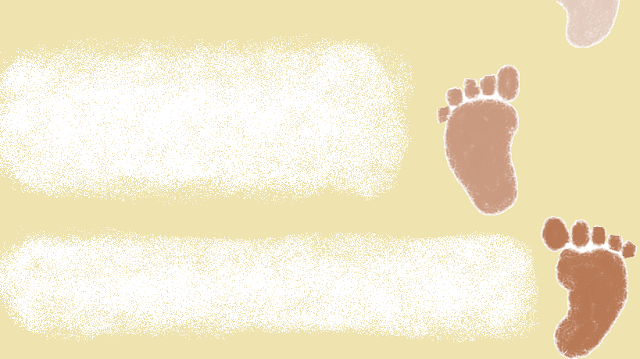
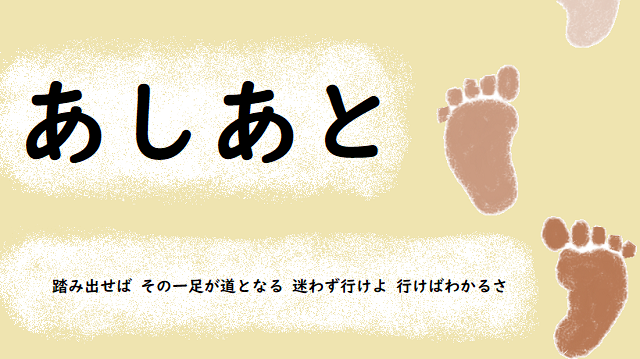
fix stopwatch and title image

diff --git a/_nuxt/6419275028afa44f4fef.js b/_nuxt/6419275028afa44f4fef.js
@@ -1,0 +1,1 @@
+(window.webpackJsonp=window.webpackJsonp||[]).push([[9],{189:function(t,e,n){var content=n(195);"string"==typeof content&&(content=[[t.i,content,""]]),content.locals&&(t.exports=content.locals);(0,n(31).default)("a4da7644",content,!0,{sourceMap:!1})},194:function(t,e,n){"use strict";var r=n(189);n.n(r).a},195:function(t,e,n){(e=n(30)(!1)).push([t.i,".img-title[data-v-e1050600]{border:solid}",""]),t.exports=e},196:function(t,e,n){"use strict";var r={props:{title:{type:String,required:!0}},data:function(){return{clipped:!1,drawer:!1,miniVariant:!1,items:[{icon:"mdi-home",color:"red lighten-1",title:"Home",to:"/"},{icon:"mdi-account",color:"green",title:"Profile",to:"/profile"},{icon:"mdi-toolbox",color:"purple darken-1",title:"Tools",to:"/tools"},{icon:"mdi-gamepad-variant",color:"blue",title:"Games",to:"/games"},{icon:"mdi-text-box-search-outline",color:"grey darken-3",title:"Research",to:"/research"},{icon:"mdi-link-variant",color:"green accent-3",title:"Links",to:"/links"}]}}},o=n(37),l=n(50),c=n.n(l),j=n(492),v=n(476),w=n(248),m=n(249),h=n(228),d=n(250),f=n(188),k=n(490),_=n(205),component=Object(o.a)(r,(function(){var t=this,e=t.$createElement,n=t._self._c||e;return n("div",[n("v-navigation-drawer",{attrs:{"mini-variant":t.miniVariant,clipped:t.clipped,fixed:"",app:""},model:{value:t.drawer,callback:function(e){t.drawer=e},expression:"drawer"}},[n("v-list",t._l(t.items,(function(e,i){return n("v-list-item",{key:i,attrs:{to:e.to,router:"",exact:""}},[n("v-list-item-action",[n("v-icon",{attrs:{color:e.color}},[t._v(t._s(e.icon))])],1),t._v(" "),n("v-list-item-content",[n("v-list-item-title",{domProps:{textContent:t._s(e.title)}})],1)],1)})),1)],1),t._v(" "),n("v-app-bar",{attrs:{"clipped-left":t.clipped,fixed:"",app:""}},[n("v-app-bar-nav-icon",{on:{click:function(e){e.stopPropagation(),t.drawer=!t.drawer}}}),t._v(" "),n("v-toolbar-title",[t._v("\n      "+t._s(t.title)+"\n    ")])],1)],1)}),[],!1,null,null,null);e.a=component.exports;c()(component,{VAppBar:j.a,VAppBarNavIcon:v.a,VIcon:w.a,VList:m.a,VListItem:h.a,VListItemAction:d.a,VListItemContent:f.a,VListItemTitle:f.c,VNavigationDrawer:k.a,VToolbarTitle:_.a})},197:function(t,e,n){"use strict";n(194);var r=n(37),o=n(50),l=n.n(o),c=n(384),component=Object(r.a)({},(function(){var t=this.$createElement;return(this._self._c||t)("v-img",{staticClass:"img-title mx-auto",attrs:{width:"80%",src:"/images/title.png"}})}),[],!1,null,"e1050600",null);e.a=component.exports;l()(component,{VImg:c.a})},240:function(t,e,n){var content=n(469);"string"==typeof content&&(content=[[t.i,content,""]]),content.locals&&(t.exports=content.locals);(0,n(31).default)("0636e0ce",content,!0,{sourceMap:!1})},465:function(t,e,n){var map={"./af":255,"./af.js":255,"./ar":256,"./ar-dz":257,"./ar-dz.js":257,"./ar-kw":258,"./ar-kw.js":258,"./ar-ly":259,"./ar-ly.js":259,"./ar-ma":260,"./ar-ma.js":260,"./ar-sa":261,"./ar-sa.js":261,"./ar-tn":262,"./ar-tn.js":262,"./ar.js":256,"./az":263,"./az.js":263,"./be":264,"./be.js":264,"./bg":265,"./bg.js":265,"./bm":266,"./bm.js":266,"./bn":267,"./bn.js":267,"./bo":268,"./bo.js":268,"./br":269,"./br.js":269,"./bs":270,"./bs.js":270,"./ca":271,"./ca.js":271,"./cs":272,"./cs.js":272,"./cv":273,"./cv.js":273,"./cy":274,"./cy.js":274,"./da":275,"./da.js":275,"./de":276,"./de-at":277,"./de-at.js":277,"./de-ch":278,"./de-ch.js":278,"./de.js":276,"./dv":279,"./dv.js":279,"./el":280,"./el.js":280,"./en-SG":281,"./en-SG.js":281,"./en-au":282,"./en-au.js":282,"./en-ca":283,"./en-ca.js":283,"./en-gb":284,"./en-gb.js":284,"./en-ie":285,"./en-ie.js":285,"./en-il":286,"./en-il.js":286,"./en-nz":287,"./en-nz.js":287,"./eo":288,"./eo.js":288,"./es":289,"./es-do":290,"./es-do.js":290,"./es-us":291,"./es-us.js":291,"./es.js":289,"./et":292,"./et.js":292,"./eu":293,"./eu.js":293,"./fa":294,"./fa.js":294,"./fi":295,"./fi.js":295,"./fo":296,"./fo.js":296,"./fr":297,"./fr-ca":298,"./fr-ca.js":298,"./fr-ch":299,"./fr-ch.js":299,"./fr.js":297,"./fy":300,"./fy.js":300,"./ga":301,"./ga.js":301,"./gd":302,"./gd.js":302,"./gl":303,"./gl.js":303,"./gom-latn":304,"./gom-latn.js":304,"./gu":305,"./gu.js":305,"./he":306,"./he.js":306,"./hi":307,"./hi.js":307,"./hr":308,"./hr.js":308,"./hu":309,"./hu.js":309,"./hy-am":310,"./hy-am.js":310,"./id":311,"./id.js":311,"./is":312,"./is.js":312,"./it":313,"./it-ch":314,"./it-ch.js":314,"./it.js":313,"./ja":315,"./ja.js":315,"./jv":316,"./jv.js":316,"./ka":317,"./ka.js":317,"./kk":318,"./kk.js":318,"./km":319,"./km.js":319,"./kn":320,"./kn.js":320,"./ko":321,"./ko.js":321,"./ku":322,"./ku.js":322,"./ky":323,"./ky.js":323,"./lb":324,"./lb.js":324,"./lo":325,"./lo.js":325,"./lt":326,"./lt.js":326,"./lv":327,"./lv.js":327,"./me":328,"./me.js":328,"./mi":329,"./mi.js":329,"./mk":330,"./mk.js":330,"./ml":331,"./ml.js":331,"./mn":332,"./mn.js":332,"./mr":333,"./mr.js":333,"./ms":334,"./ms-my":335,"./ms-my.js":335,"./ms.js":334,"./mt":336,"./mt.js":336,"./my":337,"./my.js":337,"./nb":338,"./nb.js":338,"./ne":339,"./ne.js":339,"./nl":340,"./nl-be":341,"./nl-be.js":341,"./nl.js":340,"./nn":342,"./nn.js":342,"./pa-in":343,"./pa-in.js":343,"./pl":344,"./pl.js":344,"./pt":345,"./pt-br":346,"./pt-br.js":346,"./pt.js":345,"./ro":347,"./ro.js":347,"./ru":348,"./ru.js":348,"./sd":349,"./sd.js":349,"./se":350,"./se.js":350,"./si":351,"./si.js":351,"./sk":352,"./sk.js":352,"./sl":353,"./sl.js":353,"./sq":354,"./sq.js":354,"./sr":355,"./sr-cyrl":356,"./sr-cyrl.js":356,"./sr.js":355,"./ss":357,"./ss.js":357,"./sv":358,"./sv.js":358,"./sw":359,"./sw.js":359,"./ta":360,"./ta.js":360,"./te":361,"./te.js":361,"./tet":362,"./tet.js":362,"./tg":363,"./tg.js":363,"./th":364,"./th.js":364,"./tl-ph":365,"./tl-ph.js":365,"./tlh":366,"./tlh.js":366,"./tr":367,"./tr.js":367,"./tzl":368,"./tzl.js":368,"./tzm":369,"./tzm-latn":370,"./tzm-latn.js":370,"./tzm.js":369,"./ug-cn":371,"./ug-cn.js":371,"./uk":372,"./uk.js":372,"./ur":373,"./ur.js":373,"./uz":374,"./uz-latn":375,"./uz-latn.js":375,"./uz.js":374,"./vi":376,"./vi.js":376,"./x-pseudo":377,"./x-pseudo.js":377,"./yo":378,"./yo.js":378,"./zh-cn":379,"./zh-cn.js":379,"./zh-hk":380,"./zh-hk.js":380,"./zh-tw":381,"./zh-tw.js":381};function r(t){var e=o(t);return n(e)}function o(t){if(!n.o(map,t)){var e=new Error("Cannot find module '"+t+"'");throw e.code="MODULE_NOT_FOUND",e}return map[t]}r.keys=function(){return Object.keys(map)},r.resolve=o,t.exports=r,r.id=465},468:function(t,e,n){"use strict";var r=n(240);n.n(r).a},469:function(t,e,n){(e=n(30)(!1)).push([t.i,".font--primary[data-v-4c97812e]{color:#d2691e}",""]),t.exports=e},483:function(t,e,n){"use strict";n.r(e);var r=n(196),o=n(197),l=(n(53),n(54),n(3),{data:function(){return{input:"",output:"",beforeBaseNumber:"",afterBaseNumber:"",baseNumberItems:[{text:"2進数",value:2},{text:"8進数",value:8},{text:"10進数",value:10},{text:"16進数",value:16}]}},methods:{convert:function(){this.output=parseInt(this.input,this.beforeBaseNumber).toString(this.afterBaseNumber)}}}),c=n(37),j=n(50),v=n.n(j),w=n(243),m=n(480),h=n(485),d=n(383),component=Object(c.a)(l,(function(){var t=this,e=t.$createElement,n=t._self._c||e;return n("div",[n("v-row",[n("v-select",{attrs:{items:t.baseNumberItems,"item-text":t.text,"item-value":t.value,dense:"",outlined:""},model:{value:t.beforeBaseNumber,callback:function(e){t.beforeBaseNumber=e},expression:"beforeBaseNumber"}}),t._v("の "),n("v-text-field",{attrs:{"single-line":"",outlined:""},model:{value:t.input,callback:function(e){t.input=e},expression:"input"}}),t._v("を\n    "),n("v-select",{attrs:{items:t.baseNumberItems,"item-text":t.text,"item-value":t.value,dense:"",outlined:""},model:{value:t.afterBaseNumber,callback:function(e){t.afterBaseNumber=e},expression:"afterBaseNumber"}}),t._v("に変換\n  ")],1),t._v(" "),n("v-row",[n("v-btn",{on:{click:function(e){return t.convert()}}},[t._v("変換")]),t._v(" "),n("v-text-field",{attrs:{"single-line":"",outlined:""},model:{value:t.output,callback:function(e){t.output=e},expression:"output"}})],1)],1)}),[],!1,null,null,null),f=component.exports;v()(component,{VBtn:w.a,VRow:m.a,VSelect:h.a,VTextField:d.a});n(119);var k=n(187),_=n.n(k),x={data:function(){return{nowDate:"",youbi:["月","火","水","木","金","土","日"]}},created:function(){var t=this;setInterval((function(){var e=_()(),n=e.format("E");t.nowDate=e.format("YYYY年MM月DD日("),t.nowDate+=t.youbi[Number(n)-1],t.nowDate+=e.format(") HH時mm分ss秒")}),500)}},y=Object(c.a)(x,(function(){var t=this.$createElement;return(this._self._c||t)("p",[this._v(this._s(this.nowDate))])}),[],!1,null,null,null).exports,V={data:function(){return{input:1e9}},computed:{output:function(){return Number(this.input).toLocaleString()}}},C=Object(c.a)(V,(function(){var t=this,e=t.$createElement,n=t._self._c||e;return n("div",[n("v-row",[n("v-text-field",{attrs:{"single-line":"",outlined:""},model:{value:t.input,callback:function(e){t.input=e},expression:"input"}})],1),t._v(" "),n("v-row",[n("v-text-field",{attrs:{"single-line":"",outlined:""},model:{value:t.output,callback:function(e){t.output=e},expression:"output"}})],1)],1)}),[],!1,null,null,null),O=C.exports;v()(C,{VRow:m.a,VTextField:d.a});n(88),n(38);var N={data:function(){return{input:""}},computed:{strCount:function(){return this.input.replace(/\n/g,"").length},spaCount:function(){return this.input.replace(/\s+/g,"").length},retCount:function(){var t=this.input.match(/\n/g);return t&&t.length+1||1},parCount:function(){var p=this.input.match(/\n(?:|\s+|「|『|＜|《|〈|≪|（|“|‘|\(|"|')./g);return p&&p.length+1||1}}},z=n(477),T=n(482),I=Object(c.a)(N,(function(){var t=this,e=t.$createElement,n=t._self._c||e;return n("div",[n("v-row",[n("v-textarea",{attrs:{solo:""},model:{value:t.input,callback:function(e){t.input=e},expression:"input"}})],1),t._v(" "),n("v-row",[n("v-col",[t._v("文字数(全文字)")]),t._v(" "),n("v-col",[t._v(t._s(t.strCount))])],1),t._v(" "),n("v-row",[n("v-col",[t._v("文字数(スペース無視)")]),t._v(" "),n("v-col",[t._v(t._s(t.spaCount))])],1),t._v(" "),n("v-row",[n("v-col",[t._v("行数")]),t._v(" "),n("v-col",[t._v(t._s(t.retCount))])],1),t._v(" "),n("v-row",[n("v-col",[t._v("段落数")]),t._v(" "),n("v-col",[t._v(t._s(t.parCount))])],1)],1)}),[],!1,null,null,null),B=I.exports;v()(I,{VCol:z.a,VRow:m.a,VTextarea:T.a});var D={data:function(){return{value:0}},methods:{roll:function(){this.value=Math.floor(6*Math.random())+1}}},E=n(384),S=Object(c.a)(D,(function(){var t=this,e=t.$createElement,n=t._self._c||e;return n("div",[n("v-img",{staticClass:"mx-auto",attrs:{width:"30%",src:"/images/tools/dice.png"},on:{click:function(e){return t.roll()}}}),t._v(" "),n("p",[t._v(t._s(t.value))])],1)}),[],!1,null,null,null),$=S.exports;v()(S,{VImg:E.a});var M={methods:{run:function(){var t=Math.floor(100*Math.random()),e="大吉";t>9?e="中吉":t>29?e="吉":t>69?e="凶":t>89&&(e="大凶"),alert(e)}}},L=Object(c.a)(M,(function(){var t=this,e=t.$createElement;return(t._self._c||e)("v-img",{staticClass:"mx-auto",attrs:{width:"30%",src:"/images/tools/omikuji.png"},on:{click:function(e){return t.run()}}})}),[],!1,null,null,null),R=L.exports;v()(L,{VImg:E.a});var F={data:function(){return{input:"",repeatCount:10,output:""}},methods:{repeat:function(){this.output="";for(var i=0;i<this.repeatCount;i++)this.output+=this.input}}},H=Object(c.a)(F,(function(){var t=this,e=t.$createElement,n=t._self._c||e;return n("div",[n("v-row",[n("v-text-field",{attrs:{"single-line":"",outlined:""},model:{value:t.input,callback:function(e){t.input=e},expression:"input"}}),t._v("を\n    "),n("v-text-field",{attrs:{"single-line":"",outlined:""},model:{value:t.repeatCount,callback:function(e){t.repeatCount=e},expression:"repeatCount"}}),t._v("回\n  ")],1),t._v(" "),n("v-row",[n("v-btn",{on:{click:function(e){return t.repeat()}}},[t._v("生成")])],1),t._v(" "),n("v-row",[n("v-text-field",{attrs:{"single-line":"",outlined:""},model:{value:t.output,callback:function(e){t.output=e},expression:"output"}})],1)],1)}),[],!1,null,null,null),P=H.exports;v()(H,{VBtn:w.a,VRow:m.a,VTextField:d.a});var Y={data:function(){return{count:0,timerOn:!1,timerObj:null}},computed:{formatTime:function(){var t=this.count%100,e=Math.floor(this.count/100),n=Math.floor(e/60),r=Math.floor(n/60);return this.getdoubleDigestNumer(r)+":"+this.getdoubleDigestNumer(n)+":"+this.getdoubleDigestNumer(e)+":"+this.getdoubleDigestNumer(t)}},methods:{up:function(){this.count++,864e4===this.count&&(this.count=0)},start:function(){var t=this;this.timerObj=setInterval((function(){t.up()}),10),this.timerOn=!0},stop:function(){clearInterval(this.timerObj),this.timerOn=!1},clear:function(){this.count=0},getdoubleDigestNumer:function(t){return("0"+t).slice(-2)}}},A=Object(c.a)(Y,(function(){var t=this,e=t.$createElement,n=t._self._c||e;return n("div",[n("div",[t._v("\n    "+t._s(t.formatTime)+"\n  ")]),t._v(" "),t.timerOn?t._e():n("v-btn",{on:{click:function(e){return t.start()}}},[t._v("Start")]),t._v(" "),t.timerOn?n("v-btn",{on:{click:function(e){return t.stop()}}},[t._v("Stop")]):t._e(),t._v(" "),0==t.count||t.timerOn?t._e():n("v-btn",{on:{click:function(e){return t.clear()}}},[t._v("Clear")])],1)}),[],!1,null,null,null),G=A.exports;v()(A,{VBtn:w.a});var J={data:function(){return{input:""}},computed:{output:function(){return this.input.replace(/\t/g,"  ")}}},U=Object(c.a)(J,(function(){var t=this,e=t.$createElement,n=t._self._c||e;return n("div",[n("v-row",[n("v-textarea",{attrs:{solo:""},model:{value:t.input,callback:function(e){t.input=e},expression:"input"}})],1),t._v(" "),n("v-row",[n("v-textarea",{attrs:{solo:""},model:{value:t.output,callback:function(e){t.output=e},expression:"output"}})],1)],1)}),[],!1,null,null,null),W=U.exports;v()(U,{VRow:m.a,VTextarea:T.a});var K={data:function(){return{index:0,items:["http://www.e-subaru.jp/j24simada1.jpg","http://www.e-subaru.jp/j29mituke1.jpg","http://www.e-subaru.jp/j27kakegawa1.jpg","http://www.e-subaru.jp/j28fukuroi1.jpg","http://www.e-subaru.jp/j30hamamatu1.jpg","http://www.e-subaru.jp/j31maisaka1.jpg","http://www.e-subaru.jp/j25kanaya1.jpg","http://www.e-subaru.jp/j26nissaka1.jpg","http://www.e-subaru.jp/j23fujieda1.jpg","http://www.e-subaru.jp/j22okabe1.jpg","http://www.e-subaru.jp/j21mariko1.jpg","http://www.e-subaru.jp/j20fuchu1.jpg","http://www.e-subaru.jp/j19ejiri1.jpg","http://www.e-subaru.jp/j18okitu1.jpg","http://www.e-subaru.jp/j55keisi1.jpg","http://www.e-subaru.jp/j17yui1.jpg","http://www.e-subaru.jp/j54ootu1.jpg","http://www.e-subaru.jp/j52isibe2.jpg","http://www.e-subaru.jp/j51minakuti1.jpg","http://www.e-subaru.jp/j53kusatu1.jpg","http://www.e-subaru.jp/j49sakanosita1.jpg","http://www.e-subaru.jp/j48seki1.jpg","http://www.e-subaru.jp/j50tutiyama1.jpg","http://www.e-subaru.jp/j47kameyama1.jpg","http://www.e-subaru.jp/j46syouno1.jpg","http://www.e-subaru.jp/j45isiyakusi.jpg","http://www.e-subaru.jp/j44yokkaiti1.jpg","http://www.e-subaru.jp/j43kuwana1.jpg","http://www.e-subaru.jp/j42miya1.jpg","http://www.e-subaru.jp/j41narumi.jpg","http://www.e-subaru.jp/j40tirifu1.jpg","http://www.e-subaru.jp/j39okazaki.jpg","http://www.e-subaru.jp/j38fujikawa1.jpg","http://www.e-subaru.jp/j37akasaka1.jpg","http://www.e-subaru.jp/j36goyu1.jpg","http://www.e-subaru.jp/j35yosida1.jpg","http://www.e-subaru.jp/j34futagawa1.jpg","http://www.e-subaru.jp/j33sirasuka1.jpg","http://www.e-subaru.jp/j32arai1.jpg","http://www.e-subaru.jp/j16kanbara2bmp.jpg","http://www.e-subaru.jp/j15yosiwara1.jpg","http://www.e-subaru.jp/j14hara1.jpg","http://www.e-subaru.jp/j13numazu1.jpg","http://www.e-subaru.jp/j12misima1.jpg","http://www.e-subaru.jp/j11hakone1.jpg","http://www.e-subaru.jp/j10odawara1.jpg","http://www.e-subaru.jp/j9ooiso1.jpg","http://www.e-subaru.jp/j3kawasaki1.jpg","http://www.e-subaru.jp/j2sinagawa3.jpg","http://www.e-subaru.jp/1nihonbasi142050b.jpg","http://www.e-subaru.jp/j6totuka1.jpg","http://www.e-subaru.jp/j8hiratuka1.jpg","http://www.e-subaru.jp/j4kanagawa1.jpg","http://www.e-subaru.jp/j7fujisawa1.jpg"]}},computed:{imgSrc:function(){return this.items[this.index]}},methods:{prev:function(){0===this.index?this.index=this.items.length-1:this.index-=1},next:function(){this.index===this.items.length-1?this.index=0:this.index+=1}}},Q=Object(c.a)(K,(function(){var t=this,e=t.$createElement,n=t._self._c||e;return n("div",[n("v-row",[n("v-img",{attrs:{src:t.imgSrc}})],1),t._v(" "),n("v-row",[n("v-btn",{on:{click:function(e){return t.prev()}}},[t._v("Prev")]),t._v(" "),n("v-btn",{on:{click:function(e){return t.next()}}},[t._v("Next")])],1)],1)}),[],!1,null,null,null),X=Q.exports;v()(Q,{VBtn:w.a,VImg:E.a,VRow:m.a});var Z={components:{Header:r.a,TitleImage:o.a,BaseNumberConvert:f,Clock:y,CommaSeparate:O,Count:B,Dice:$,Omikuji:R,Repeat:P,StopWatch:G,TabToSpaceConvert:W,Tokaido53:X},data:function(){return{items:[{key:"clock",title:"現在時刻"},{key:"stop-watch",title:"ストップウォッチ"},{key:"omikuji",title:"おみくじ"},{key:"dice",title:"サイコロ"},{key:"repeat",title:"文字繰り返し"},{key:"comma-separate",title:"カンマ区切り"},{key:"base-number-convert",title:"進数変換"},{key:"count",title:"文字数カウント"},{key:"tab-to-space-convert",title:"タブ→スペース変換"},{key:"tokaido53",title:"東海道五十三次"}]}}},tt=(n(468),n(200)),et=n(191),at=n(478),nt=n(479),st=Object(c.a)(Z,(function(){var t=this,e=t.$createElement,n=t._self._c||e;return n("v-layout",[n("Header",{attrs:{title:"あしあと - Tools"}}),t._v(" "),n("v-flex",{staticClass:"text-center"},[n("v-row",{attrs:{justify:"center"}},[n("v-col",{attrs:{cols:"6"}},[n("title-image"),t._v(" "),n("div",[t._v("\n          雑多な"),n("span",{staticClass:"font--primary"},[t._v("ツール")]),t._v("を置くためのページです．\n        ")])],1)],1),t._v(" "),n("v-card",[n("v-row",t._l(t.items,(function(e){return n("v-col",{key:e.key,attrs:{cols:"4"}},[n("v-card-title",[t._v(t._s(e.title))]),t._v(" "),"clock"===e.key?n("v-card-text",[n("clock")],1):"stop-watch"===e.key?n("v-card-text",[n("stop-watch")],1):"omikuji"===e.key?n("v-card-text",[n("omikuji")],1):"dice"===e.key?n("v-card-text",[n("dice")],1):"repeat"===e.key?n("v-card-text",[n("repeat")],1):"comma-separate"===e.key?n("v-card-text",[n("comma-separate")],1):"base-number-convert"===e.key?n("v-card-text",[n("base-number-convert")],1):"count"===e.key?n("v-card-text",[n("count")],1):"tab-to-space-convert"===e.key?n("v-card-text",[n("tab-to-space-convert")],1):"tokaido53"===e.key?n("v-card-text",[n("tokaido53")],1):t._e()],1)})),1)],1)],1)],1)}),[],!1,null,"4c97812e",null);e.default=st.exports;v()(st,{VCard:tt.a,VCardText:et.a,VCardTitle:et.b,VCol:z.a,VFlex:at.a,VLayout:nt.a,VRow:m.a})}}]);

diff --git a/index.html b/index.html
@@ -179,7 +179,7 @@ MMM@  MMMMMMMMMMMMMMMMM)              `                     `   `               
     <link data-n-head="1" rel="icon" type="image/x-icon" href="/ico/favicon.ico">
     <link data-n-head="1" rel="stylesheet" type="text/css" href="https://fonts.googleapis.com/css?family=Roboto:100,300,400,500,700,900&display=swap">
     <link data-n-head="1" rel="stylesheet" type="text/css" href="https://cdn.jsdelivr.net/npm/@mdi/font@latest/css/materialdesignicons.min.css">
-    <link rel="preload" href="/_nuxt/9303c3ffac6cb566c17b.js" as="script">
+    <link rel="preload" href="/_nuxt/4c4d12ef0c7cbf77c2ba.js" as="script">
     <link rel="preload" href="/_nuxt/cfa579ebee79642b3be6.js" as="script">
     <link rel="preload" href="/_nuxt/bf77c3e02fa203348d8d.js" as="script">
     <link rel="preload" href="/_nuxt/2b2190568c6d1faf86b1.js" as="script">
@@ -193,7 +193,7 @@ MMM@  MMMMMMMMMMMMMMMMM)              `                     `   `               
 
     <!-- Vue Version -->
     <div id="__nuxt"><style>#nuxt-loading{visibility:hidden;opacity:0;position:absolute;left:0;right:0;top:0;bottom:0;display:flex;justify-content:center;align-items:center;flex-direction:column;animation:nuxtLoadingIn 10s ease;-webkit-animation:nuxtLoadingIn 10s ease;animation-fill-mode:forwards;overflow:hidden}@keyframes nuxtLoadingIn{0%{visibility:hidden;opacity:0}20%{visibility:visible;opacity:0}100%{visibility:visible;opacity:1}}@-webkit-keyframes nuxtLoadingIn{0%{visibility:hidden;opacity:0}20%{visibility:visible;opacity:0}100%{visibility:visible;opacity:1}}#nuxt-loading>div,#nuxt-loading>div:after{border-radius:50%;width:5rem;height:5rem}#nuxt-loading>div{font-size:10px;position:relative;text-indent:-9999em;border:.5rem solid #f5f5f5;border-left:.5rem solid #fff;-webkit-transform:translateZ(0);-ms-transform:translateZ(0);transform:translateZ(0);-webkit-animation:nuxtLoading 1.1s infinite linear;animation:nuxtLoading 1.1s infinite linear}#nuxt-loading.error>div{border-left:.5rem solid #ff4500;animation-duration:5s}@-webkit-keyframes nuxtLoading{0%{-webkit-transform:rotate(0);transform:rotate(0)}100%{-webkit-transform:rotate(360deg);transform:rotate(360deg)}}@keyframes nuxtLoading{0%{-webkit-transform:rotate(0);transform:rotate(0)}100%{-webkit-transform:rotate(360deg);transform:rotate(360deg)}}</style><script>window.addEventListener("error",function(){var e=document.getElementById("nuxt-loading");e&&(e.className+=" error")})</script><div id="nuxt-loading" aria-live="polite" role="status"><div>Loading...</div></div></div>
-    <script type="text/javascript" src="/_nuxt/9303c3ffac6cb566c17b.js"></script>
+    <script type="text/javascript" src="/_nuxt/4c4d12ef0c7cbf77c2ba.js"></script>
     <script type="text/javascript" src="/_nuxt/cfa579ebee79642b3be6.js"></script>
     <script type="text/javascript" src="/_nuxt/bf77c3e02fa203348d8d.js"></script>
     <script type="text/javascript" src="/_nuxt/2b2190568c6d1faf86b1.js"></script>
@@ -202,7 +202,7 @@ MMM@  MMMMMMMMMMMMMMMMM)              `                     `   `               
     <div id="__old" style="display:none;"><table class="main">
     <!-- Title -->
     <tr><td colspan="3"><table class="title"><tr><td>
-    <img src="/images/title.png" alt="あしあと">
+    <img src="/images/title_back.png" alt="あしあと">
     <img src="/images/string.png" alt="あしあと" class="titlestring">
     </td></tr></table></td></tr>
     <!-- Title -->

diff --git a/games/index.html b/games/index.html
@@ -13,7 +13,7 @@
     <link data-n-head="1" rel="icon" type="image/x-icon" href="/ico/favicon.ico">
     <link data-n-head="1" rel="stylesheet" type="text/css" href="https://fonts.googleapis.com/css?family=Roboto:100,300,400,500,700,900&display=swap">
     <link data-n-head="1" rel="stylesheet" type="text/css" href="https://cdn.jsdelivr.net/npm/@mdi/font@latest/css/materialdesignicons.min.css">
-    <link rel="preload" href="/_nuxt/9303c3ffac6cb566c17b.js" as="script">
+    <link rel="preload" href="/_nuxt/4c4d12ef0c7cbf77c2ba.js" as="script">
     <link rel="preload" href="/_nuxt/cfa579ebee79642b3be6.js" as="script">
     <link rel="preload" href="/_nuxt/bf77c3e02fa203348d8d.js" as="script">
     <link rel="preload" href="/_nuxt/2b2190568c6d1faf86b1.js" as="script">
@@ -27,7 +27,7 @@
 
     <!-- Vue Version -->
     <div id="__nuxt"><style>#nuxt-loading{visibility:hidden;opacity:0;position:absolute;left:0;right:0;top:0;bottom:0;display:flex;justify-content:center;align-items:center;flex-direction:column;animation:nuxtLoadingIn 10s ease;-webkit-animation:nuxtLoadingIn 10s ease;animation-fill-mode:forwards;overflow:hidden}@keyframes nuxtLoadingIn{0%{visibility:hidden;opacity:0}20%{visibility:visible;opacity:0}100%{visibility:visible;opacity:1}}@-webkit-keyframes nuxtLoadingIn{0%{visibility:hidden;opacity:0}20%{visibility:visible;opacity:0}100%{visibility:visible;opacity:1}}#nuxt-loading>div,#nuxt-loading>div:after{border-radius:50%;width:5rem;height:5rem}#nuxt-loading>div{font-size:10px;position:relative;text-indent:-9999em;border:.5rem solid #f5f5f5;border-left:.5rem solid #fff;-webkit-transform:translateZ(0);-ms-transform:translateZ(0);transform:translateZ(0);-webkit-animation:nuxtLoading 1.1s infinite linear;animation:nuxtLoading 1.1s infinite linear}#nuxt-loading.error>div{border-left:.5rem solid #ff4500;animation-duration:5s}@-webkit-keyframes nuxtLoading{0%{-webkit-transform:rotate(0);transform:rotate(0)}100%{-webkit-transform:rotate(360deg);transform:rotate(360deg)}}@keyframes nuxtLoading{0%{-webkit-transform:rotate(0);transform:rotate(0)}100%{-webkit-transform:rotate(360deg);transform:rotate(360deg)}}</style><script>window.addEventListener("error",function(){var e=document.getElementById("nuxt-loading");e&&(e.className+=" error")})</script><div id="nuxt-loading" aria-live="polite" role="status"><div>Loading...</div></div></div>
-    <script type="text/javascript" src="/_nuxt/9303c3ffac6cb566c17b.js"></script>
+    <script type="text/javascript" src="/_nuxt/4c4d12ef0c7cbf77c2ba.js"></script>
     <script type="text/javascript" src="/_nuxt/cfa579ebee79642b3be6.js"></script>
     <script type="text/javascript" src="/_nuxt/bf77c3e02fa203348d8d.js"></script>
     <script type="text/javascript" src="/_nuxt/2b2190568c6d1faf86b1.js"></script>
@@ -36,7 +36,7 @@
     <div id="__old" style="display:none;"><table class="main">
     <!-- Title -->
     <tr><td colspan="2"><table class="title"><tr><td>
-    <img src="/images/title.png" alt="あしあと">
+    <img src="/images/title_back.png" alt="あしあと">
     <img src="/images/string.png" alt="あしあと" class="titlestring">
     </td></tr></table></td></tr>
     <!-- Title -->

diff --git a/links/index.html b/links/index.html
@@ -13,7 +13,7 @@
     <link data-n-head="1" rel="icon" type="image/x-icon" href="/ico/favicon.ico">
     <link data-n-head="1" rel="stylesheet" type="text/css" href="https://fonts.googleapis.com/css?family=Roboto:100,300,400,500,700,900&display=swap">
     <link data-n-head="1" rel="stylesheet" type="text/css" href="https://cdn.jsdelivr.net/npm/@mdi/font@latest/css/materialdesignicons.min.css">
-    <link rel="preload" href="/_nuxt/9303c3ffac6cb566c17b.js" as="script">
+    <link rel="preload" href="/_nuxt/4c4d12ef0c7cbf77c2ba.js" as="script">
     <link rel="preload" href="/_nuxt/cfa579ebee79642b3be6.js" as="script">
     <link rel="preload" href="/_nuxt/bf77c3e02fa203348d8d.js" as="script">
     <link rel="preload" href="/_nuxt/2b2190568c6d1faf86b1.js" as="script">
@@ -27,7 +27,7 @@
 
     <!-- Vue Version -->
     <div id="__nuxt"><style>#nuxt-loading{visibility:hidden;opacity:0;position:absolute;left:0;right:0;top:0;bottom:0;display:flex;justify-content:center;align-items:center;flex-direction:column;animation:nuxtLoadingIn 10s ease;-webkit-animation:nuxtLoadingIn 10s ease;animation-fill-mode:forwards;overflow:hidden}@keyframes nuxtLoadingIn{0%{visibility:hidden;opacity:0}20%{visibility:visible;opacity:0}100%{visibility:visible;opacity:1}}@-webkit-keyframes nuxtLoadingIn{0%{visibility:hidden;opacity:0}20%{visibility:visible;opacity:0}100%{visibility:visible;opacity:1}}#nuxt-loading>div,#nuxt-loading>div:after{border-radius:50%;width:5rem;height:5rem}#nuxt-loading>div{font-size:10px;position:relative;text-indent:-9999em;border:.5rem solid #f5f5f5;border-left:.5rem solid #fff;-webkit-transform:translateZ(0);-ms-transform:translateZ(0);transform:translateZ(0);-webkit-animation:nuxtLoading 1.1s infinite linear;animation:nuxtLoading 1.1s infinite linear}#nuxt-loading.error>div{border-left:.5rem solid #ff4500;animation-duration:5s}@-webkit-keyframes nuxtLoading{0%{-webkit-transform:rotate(0);transform:rotate(0)}100%{-webkit-transform:rotate(360deg);transform:rotate(360deg)}}@keyframes nuxtLoading{0%{-webkit-transform:rotate(0);transform:rotate(0)}100%{-webkit-transform:rotate(360deg);transform:rotate(360deg)}}</style><script>window.addEventListener("error",function(){var e=document.getElementById("nuxt-loading");e&&(e.className+=" error")})</script><div id="nuxt-loading" aria-live="polite" role="status"><div>Loading...</div></div></div>
-    <script type="text/javascript" src="/_nuxt/9303c3ffac6cb566c17b.js"></script>
+    <script type="text/javascript" src="/_nuxt/4c4d12ef0c7cbf77c2ba.js"></script>
     <script type="text/javascript" src="/_nuxt/cfa579ebee79642b3be6.js"></script>
     <script type="text/javascript" src="/_nuxt/bf77c3e02fa203348d8d.js"></script>
     <script type="text/javascript" src="/_nuxt/2b2190568c6d1faf86b1.js"></script>
@@ -36,7 +36,7 @@
     <div id="__old" style="display:none;"><table class="main">
     <!-- Title -->
     <tr><td colspan="2"><table class="title"><tr><td>
-    <img src="/images/title.png" alt="あしあと">
+    <img src="/images/title_back.png" alt="あしあと">
     <img src="/images/string.png" alt="あしあと" class="titlestring">
     </td></tr></table></td></tr>
     <!-- Title -->

diff --git a/research/index.html b/research/index.html
@@ -13,7 +13,7 @@
     <link data-n-head="1" rel="icon" type="image/x-icon" href="/ico/favicon.ico">
     <link data-n-head="1" rel="stylesheet" type="text/css" href="https://fonts.googleapis.com/css?family=Roboto:100,300,400,500,700,900&display=swap">
     <link data-n-head="1" rel="stylesheet" type="text/css" href="https://cdn.jsdelivr.net/npm/@mdi/font@latest/css/materialdesignicons.min.css">
-    <link rel="preload" href="/_nuxt/9303c3ffac6cb566c17b.js" as="script">
+    <link rel="preload" href="/_nuxt/4c4d12ef0c7cbf77c2ba.js" as="script">
     <link rel="preload" href="/_nuxt/cfa579ebee79642b3be6.js" as="script">
     <link rel="preload" href="/_nuxt/bf77c3e02fa203348d8d.js" as="script">
     <link rel="preload" href="/_nuxt/2b2190568c6d1faf86b1.js" as="script">
@@ -27,7 +27,7 @@
 
     <!-- Vue Version -->
     <div id="__nuxt"><style>#nuxt-loading{visibility:hidden;opacity:0;position:absolute;left:0;right:0;top:0;bottom:0;display:flex;justify-content:center;align-items:center;flex-direction:column;animation:nuxtLoadingIn 10s ease;-webkit-animation:nuxtLoadingIn 10s ease;animation-fill-mode:forwards;overflow:hidden}@keyframes nuxtLoadingIn{0%{visibility:hidden;opacity:0}20%{visibility:visible;opacity:0}100%{visibility:visible;opacity:1}}@-webkit-keyframes nuxtLoadingIn{0%{visibility:hidden;opacity:0}20%{visibility:visible;opacity:0}100%{visibility:visible;opacity:1}}#nuxt-loading>div,#nuxt-loading>div:after{border-radius:50%;width:5rem;height:5rem}#nuxt-loading>div{font-size:10px;position:relative;text-indent:-9999em;border:.5rem solid #f5f5f5;border-left:.5rem solid #fff;-webkit-transform:translateZ(0);-ms-transform:translateZ(0);transform:translateZ(0);-webkit-animation:nuxtLoading 1.1s infinite linear;animation:nuxtLoading 1.1s infinite linear}#nuxt-loading.error>div{border-left:.5rem solid #ff4500;animation-duration:5s}@-webkit-keyframes nuxtLoading{0%{-webkit-transform:rotate(0);transform:rotate(0)}100%{-webkit-transform:rotate(360deg);transform:rotate(360deg)}}@keyframes nuxtLoading{0%{-webkit-transform:rotate(0);transform:rotate(0)}100%{-webkit-transform:rotate(360deg);transform:rotate(360deg)}}</style><script>window.addEventListener("error",function(){var e=document.getElementById("nuxt-loading");e&&(e.className+=" error")})</script><div id="nuxt-loading" aria-live="polite" role="status"><div>Loading...</div></div></div>
-    <script type="text/javascript" src="/_nuxt/9303c3ffac6cb566c17b.js"></script>
+    <script type="text/javascript" src="/_nuxt/4c4d12ef0c7cbf77c2ba.js"></script>
     <script type="text/javascript" src="/_nuxt/cfa579ebee79642b3be6.js"></script>
     <script type="text/javascript" src="/_nuxt/bf77c3e02fa203348d8d.js"></script>
     <script type="text/javascript" src="/_nuxt/2b2190568c6d1faf86b1.js"></script>
@@ -36,7 +36,7 @@
     <div id="__old" style="display:none;"><table class="main">
     <!-- Title -->
     <tr><td colspan="2"><table class="title"><tr><td>
-    <img src="/images/title.png" alt="あしあと">
+    <img src="/images/title_back.png" alt="あしあと">
     <img src="/images/string.png" alt="あしあと" class="titlestring">
     </td></tr></table></td></tr>
     <!-- Title -->

diff --git a/tools/index.html b/tools/index.html
@@ -13,7 +13,7 @@
     <link data-n-head="1" rel="icon" type="image/x-icon" href="/ico/favicon.ico">
     <link data-n-head="1" rel="stylesheet" type="text/css" href="https://fonts.googleapis.com/css?family=Roboto:100,300,400,500,700,900&display=swap">
     <link data-n-head="1" rel="stylesheet" type="text/css" href="https://cdn.jsdelivr.net/npm/@mdi/font@latest/css/materialdesignicons.min.css">
-    <link rel="preload" href="/_nuxt/9303c3ffac6cb566c17b.js" as="script">
+    <link rel="preload" href="/_nuxt/4c4d12ef0c7cbf77c2ba.js" as="script">
     <link rel="preload" href="/_nuxt/cfa579ebee79642b3be6.js" as="script">
     <link rel="preload" href="/_nuxt/bf77c3e02fa203348d8d.js" as="script">
     <link rel="preload" href="/_nuxt/2b2190568c6d1faf86b1.js" as="script">
@@ -27,7 +27,7 @@
 
     <!-- Vue Version -->
     <div id="__nuxt"><style>#nuxt-loading{visibility:hidden;opacity:0;position:absolute;left:0;right:0;top:0;bottom:0;display:flex;justify-content:center;align-items:center;flex-direction:column;animation:nuxtLoadingIn 10s ease;-webkit-animation:nuxtLoadingIn 10s ease;animation-fill-mode:forwards;overflow:hidden}@keyframes nuxtLoadingIn{0%{visibility:hidden;opacity:0}20%{visibility:visible;opacity:0}100%{visibility:visible;opacity:1}}@-webkit-keyframes nuxtLoadingIn{0%{visibility:hidden;opacity:0}20%{visibility:visible;opacity:0}100%{visibility:visible;opacity:1}}#nuxt-loading>div,#nuxt-loading>div:after{border-radius:50%;width:5rem;height:5rem}#nuxt-loading>div{font-size:10px;position:relative;text-indent:-9999em;border:.5rem solid #f5f5f5;border-left:.5rem solid #fff;-webkit-transform:translateZ(0);-ms-transform:translateZ(0);transform:translateZ(0);-webkit-animation:nuxtLoading 1.1s infinite linear;animation:nuxtLoading 1.1s infinite linear}#nuxt-loading.error>div{border-left:.5rem solid #ff4500;animation-duration:5s}@-webkit-keyframes nuxtLoading{0%{-webkit-transform:rotate(0);transform:rotate(0)}100%{-webkit-transform:rotate(360deg);transform:rotate(360deg)}}@keyframes nuxtLoading{0%{-webkit-transform:rotate(0);transform:rotate(0)}100%{-webkit-transform:rotate(360deg);transform:rotate(360deg)}}</style><script>window.addEventListener("error",function(){var e=document.getElementById("nuxt-loading");e&&(e.className+=" error")})</script><div id="nuxt-loading" aria-live="polite" role="status"><div>Loading...</div></div></div>
-    <script type="text/javascript" src="/_nuxt/9303c3ffac6cb566c17b.js"></script>
+    <script type="text/javascript" src="/_nuxt/4c4d12ef0c7cbf77c2ba.js"></script>
     <script type="text/javascript" src="/_nuxt/cfa579ebee79642b3be6.js"></script>
     <script type="text/javascript" src="/_nuxt/bf77c3e02fa203348d8d.js"></script>
     <script type="text/javascript" src="/_nuxt/2b2190568c6d1faf86b1.js"></script>
@@ -36,7 +36,7 @@
     <div id="__old" style="display:none;"><table class="main">
     <!-- Title -->
     <tr><td colspan="2"><table class="title"><tr><td>
-    <img src="/images/title.png" alt="あしあと">
+    <img src="/images/title_back.png" alt="あしあと">
     <img src="/images/string.png" alt="あしあと" class="titlestring">
     </td></tr></table></td></tr>
     <!-- Title -->

diff --git a/_nuxt/4c4d12ef0c7cbf77c2ba.js b/_nuxt/4c4d12ef0c7cbf77c2ba.js
@@ -1,0 +1,1 @@
+!function(e){function r(data){for(var r,n,f=data[0],l=data[1],d=data[2],i=0,h=[];i<f.length;i++)n=f[i],Object.prototype.hasOwnProperty.call(o,n)&&o[n]&&h.push(o[n][0]),o[n]=0;for(r in l)Object.prototype.hasOwnProperty.call(l,r)&&(e[r]=l[r]);for(v&&v(data);h.length;)h.shift()();return c.push.apply(c,d||[]),t()}function t(){for(var e,i=0;i<c.length;i++){for(var r=c[i],t=!0,n=1;n<r.length;n++){var l=r[n];0!==o[l]&&(t=!1)}t&&(c.splice(i--,1),e=f(f.s=r[0]))}return e}var n={},o={10:0},c=[];function f(r){if(n[r])return n[r].exports;var t=n[r]={i:r,l:!1,exports:{}};return e[r].call(t.exports,t,t.exports,f),t.l=!0,t.exports}f.e=function(e){var r=[],t=o[e];if(0!==t)if(t)r.push(t[2]);else{var n=new Promise((function(r,n){t=o[e]=[r,n]}));r.push(t[2]=n);var c,script=document.createElement("script");script.charset="utf-8",script.timeout=120,f.nc&&script.setAttribute("nonce",f.nc),script.src=function(e){return f.p+""+{0:"7720fe5260b86076fafb",1:"e7be257ebf9fd2f74e0f",4:"561d3e2d0c61880a6bc4",5:"3e4ed04ca3f1ac6584dd",6:"b4bd2b93e09925116cc4",7:"a7d1c9478724c8d6519a",8:"e2190b339a5954d33329",9:"6419275028afa44f4fef",12:"e16da93529458cb4cf07",13:"fd45c83ab817a496bcee"}[e]+".js"}(e);var l=new Error;c=function(r){script.onerror=script.onload=null,clearTimeout(d);var t=o[e];if(0!==t){if(t){var n=r&&("load"===r.type?"missing":r.type),c=r&&r.target&&r.target.src;l.message="Loading chunk "+e+" failed.\n("+n+": "+c+")",l.name="ChunkLoadError",l.type=n,l.request=c,t[1](l)}o[e]=void 0}};var d=setTimeout((function(){c({type:"timeout",target:script})}),12e4);script.onerror=script.onload=c,document.head.appendChild(script)}return Promise.all(r)},f.m=e,f.c=n,f.d=function(e,r,t){f.o(e,r)||Object.defineProperty(e,r,{enumerable:!0,get:t})},f.r=function(e){"undefined"!=typeof Symbol&&Symbol.toStringTag&&Object.defineProperty(e,Symbol.toStringTag,{value:"Module"}),Object.defineProperty(e,"__esModule",{value:!0})},f.t=function(e,r){if(1&r&&(e=f(e)),8&r)return e;if(4&r&&"object"==typeof e&&e&&e.__esModule)return e;var t=Object.create(null);if(f.r(t),Object.defineProperty(t,"default",{enumerable:!0,value:e}),2&r&&"string"!=typeof e)for(var n in e)f.d(t,n,function(r){return e[r]}.bind(null,n));return t},f.n=function(e){var r=e&&e.__esModule?function(){return e.default}:function(){return e};return f.d(r,"a",r),r},f.o=function(object,e){return Object.prototype.hasOwnProperty.call(object,e)},f.p="/_nuxt/",f.oe=function(e){throw console.error(e),e};var l=window.webpackJsonp=window.webpackJsonp||[],d=l.push.bind(l);l.push=r,l=l.slice();for(var i=0;i<l.length;i++)r(l[i]);var v=d;t()}([]);

diff --git a/profile/index.html b/profile/index.html
@@ -13,7 +13,7 @@
     <link data-n-head="1" rel="icon" type="image/x-icon" href="/ico/favicon.ico">
     <link data-n-head="1" rel="stylesheet" type="text/css" href="https://fonts.googleapis.com/css?family=Roboto:100,300,400,500,700,900&display=swap">
     <link data-n-head="1" rel="stylesheet" type="text/css" href="https://cdn.jsdelivr.net/npm/@mdi/font@latest/css/materialdesignicons.min.css">
-    <link rel="preload" href="/_nuxt/9303c3ffac6cb566c17b.js" as="script">
+    <link rel="preload" href="/_nuxt/4c4d12ef0c7cbf77c2ba.js" as="script">
     <link rel="preload" href="/_nuxt/cfa579ebee79642b3be6.js" as="script">
     <link rel="preload" href="/_nuxt/bf77c3e02fa203348d8d.js" as="script">
     <link rel="preload" href="/_nuxt/2b2190568c6d1faf86b1.js" as="script">
@@ -36,7 +36,7 @@
     <div id="__old" style="display:none;"><table class="main">
     <!-- Title -->
     <tr><td colspan="2"><table class="title"><tr><td>
-    <img src="/images/title.png" alt="あしあと">
+    <img src="/images/title_back.png" alt="あしあと">
     <img src="/images/string.png" alt="あしあと" class="titlestring">
     </td></tr></table></td></tr>
     <!-- Title -->
